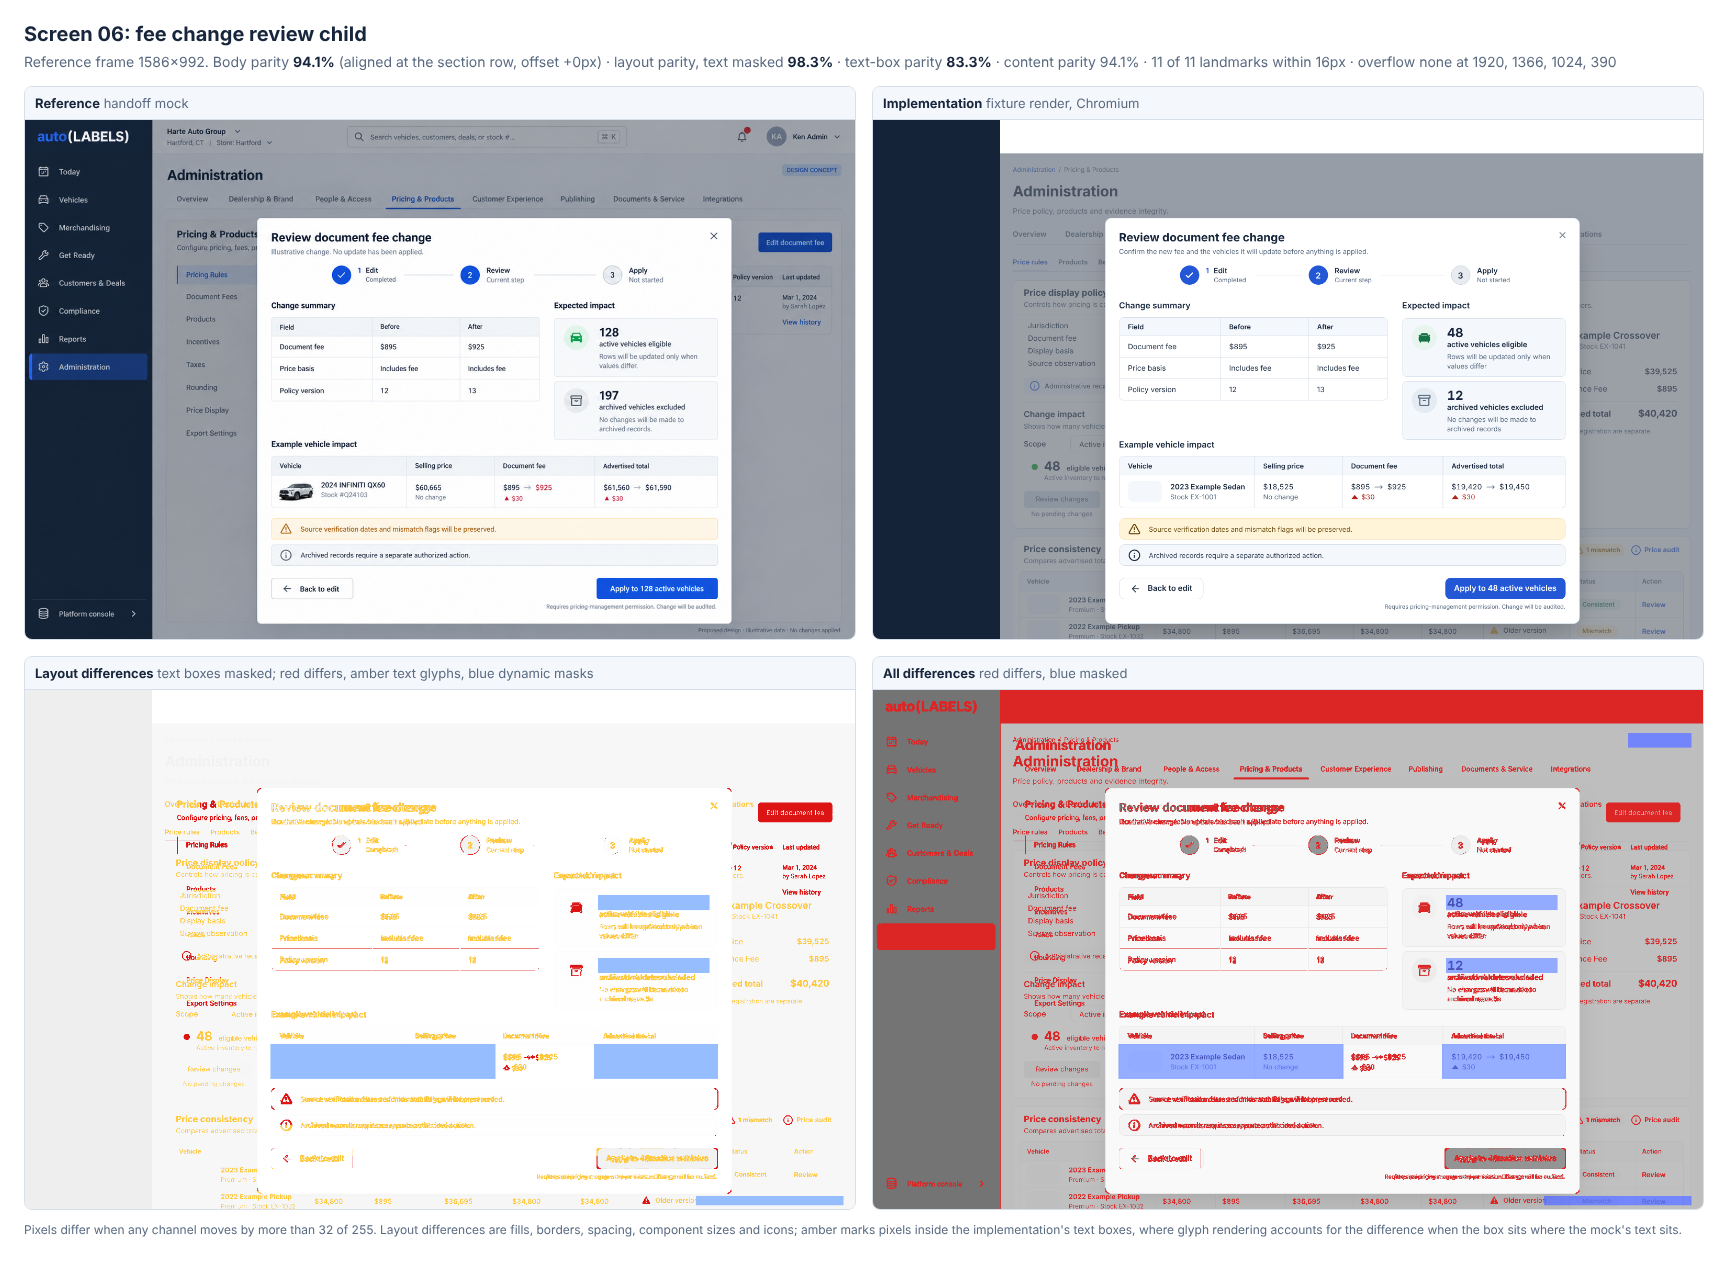
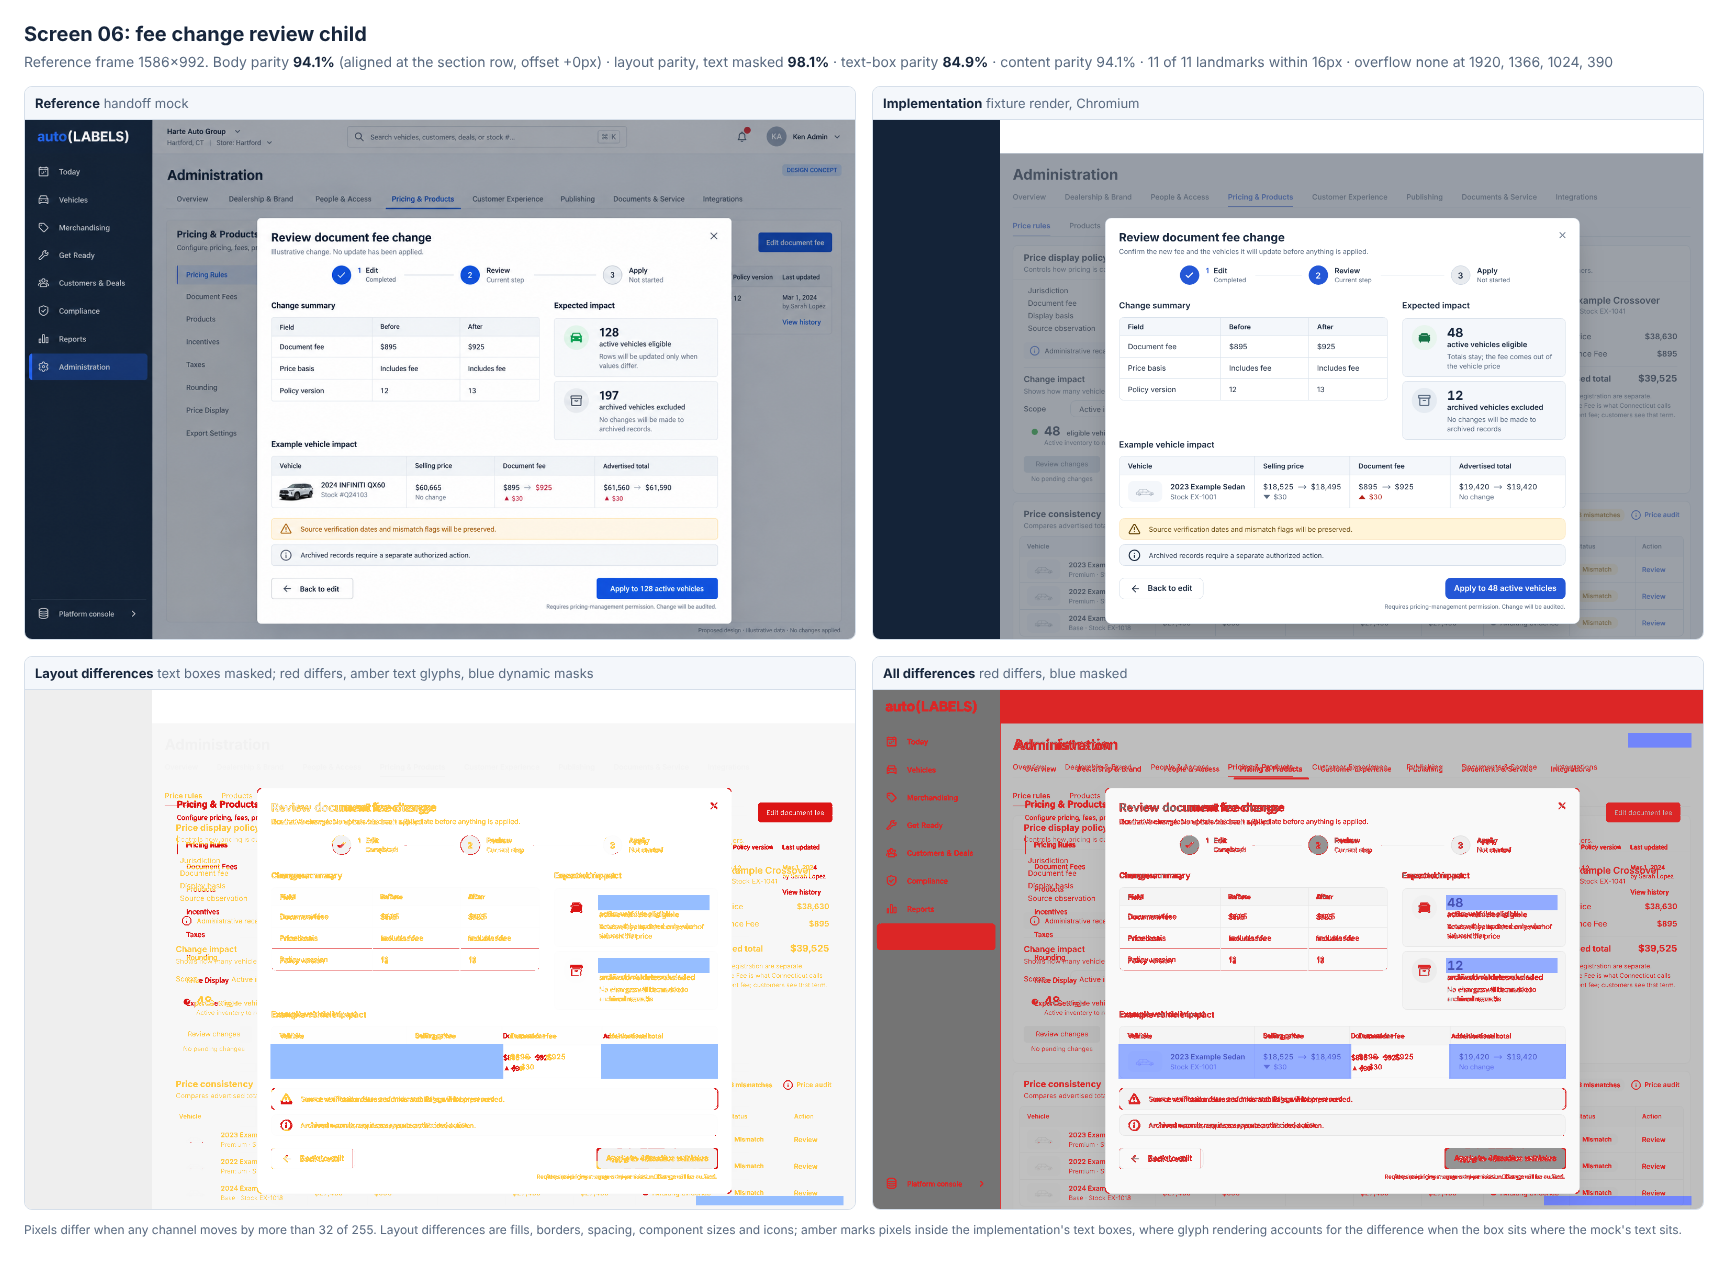
Record screen 06 individual review package and all 13 screens on one revision
- Full protocol v2 run on 7f4fa1a; every screen equals its earlier figure,
  06 at 94.11% (individual review band), 12 screens below 94%
- Screen 06 overlay, side-by-side, desktop and phone captures, desktop
  interaction states with button enablement, and the phone dialog checks
  (30 of 30); the phone check now expects the corrected fee-inclusive
  example (total unchanged, selling price absorbs the fee)
- Current captures and sheets of 01, 08 and 12 for review; no tuning
- Owner summary 10.15

Claude-Session: https://claude.ai/code/session_01JTZytE7hG5Xx6bDG1CX5aK

diff --git a/ADMIN_V2_RELEASE_READINESS.md b/ADMIN_V2_RELEASE_READINESS.md
@@ -27,7 +27,7 @@ every production check was a read or a block that always rolled back.
 | 13 | Lead escalation function | Verified in isolation; first live escalation Untested | 22 checks running the deployed source unmodified | production has no valid destination and no leads, so it cannot send yet; a failed lead update after an accepted send would repeat the email (section 7) |
 | 14 | MarketCheck quota protection and paused sweep | Verified | ledger, scheduler and 38-screen mount test (section 8) | the daily feed retries a quota refusal twice (3 refused calls a day until Nov 1) |
 | 15 | Scheduled monitoring | Verified (configured) | trigger read back (section 9) | results arrive 2026-10-29 07:40 UTC |
-| 16 | Visual acceptance | Not met; exceptions pending | Protocol v2 on `1dd1d4b`: 06 at 94.15% (individual review); 12 screens below 94%; mobile pass and 05 pricing correction verified (sections 10.7-10.8) | Owner visual review |
+| 16 | Visual acceptance | Not met; 06 submitted for individual review | Protocol v2, all 13 screens measured on one revision (`7f4fa1a`, section 10.15): 06 at 94.11% (individual review); 12 screens below 94% | Owner visual review |
 
 ## 2. How the evidence was produced
 
@@ -1461,6 +1461,90 @@ treatment is not the problem on these surfaces.
 | G7 | Crawler patch deployed in shadow mode: evidence and audit only, no listing writes, for at least one full crawl cycle; held and unresolved rates reviewed | Open |
 | G8 | Listing writes enabled for one dealership with a rollback flag; class A correction regenerated from reconciled stacks through the guarded template | Open |
 | G9 | MarketCheck resumption decided separately, after quota, cost and these safeguards | Open (paused) |
+
+### 10.15 Screen 06 individual review package; all 13 screens on one revision (2026-10-29)
+
+**Revision.** Every number below was measured in one harness run on
+implementation commit `7f4fa1a`. `a46cfa7` and this commit add only review
+tooling and evidence under `scripts/`, so the app code is the same. No
+screen was tuned in this round. The acceptance rule is unchanged:
+- 95% target;
+- 94.00-94.99% eligible for individual approval;
+- below 94% is below the numeric target unless a specific exception is
+  approved.
+
+| # | Screen | v2 content | Band | Landmarks |
+| --- | --- | --- | --- | --- |
+| 01 | Overview | 92.99% | below 94 | pass |
+| 02 | Dealership & Brand | 88.01% | below 94 | pass |
+| 03 | People & Access | 90.70% | below 94 | pass |
+| 04 | Member role | 89.87% | below 94 | fail (owner layout decision) |
+| 05 | Price rules | 89.87% | below 94 | pass |
+| 06 | Fee change review | **94.11%** | 94.00-94.99: individual review | pass |
+| 07 | Product applicability | 87.83% | below 94 | pass |
+| 08 | Contact & Routing | 92.12% | below 94 | pass |
+| 09 | Escalation rules | 86.53% | below 94 | pass |
+| 10 | Effective policy | 89.53% | below 94 | fail (owner layout decision) |
+| 11 | Approval rules | 89.84% | below 94 | fail (approved title block) |
+| 12 | Inventory feed | 92.22% | below 94 | fail (owner layout decision) |
+| 13 | Sync run detail | 87.77% | below 94 | fail (owner layout decision) |
+
+Every value equals the earlier figure for that screen, so the mixed-revision
+table in 10.8 and 10.9 is superseded by this one.
+
+**Screen 06 package** (`scripts/admin-parity/evidence/`):
+- **Reference, actual, overlay and differences:** `overlay/06.png`.
+- **Side by side with diffs:** `side-by-side/06.png`.
+- **Actual captures:**
+  - `screen-06-review/actual-06-1586x992.png`;
+  - `screen-06-review/06-1920x1080.png`;
+  - `screen-06-review/06-1366x768.png`;
+  - `screen-06-review/06-390x844.png`.
+- **Desktop states** (`screen-06-review/states/`, with `states-06.json`):
+
+  | State | Buttons and messages |
+  | --- | --- |
+  | Review as opened | Back to edit enabled; Apply to 48 active vehicles enabled |
+  | Back to edit | Review changes enabled; draft kept |
+  | Fee set back to $895 | Review changes disabled |
+  | Amount -5 submitted | "The fee cannot be negative." |
+  | Fee switched off | Amount field disabled |
+  | 1366x768 | The review fits without scrolling |
+
+- **Phone captures** (`screen-06-review/mobile/`): 390x844, 320x568 and
+  390x500 (short, on-screen keyboard), captured as the dialog body scrolls.
+  30 of 30 checks pass:
+  - the dialog fits the viewport;
+  - the page behind does not scroll;
+  - Close, Back and Apply are reachable;
+  - every fee and total is readable;
+  - focus is trapped and returns to the trigger;
+  - the inputs scroll into view.
+- **States the fixture cannot reach:** Apply disabled while the review is
+  held, Apply disabled without pricing authority, and impact not computable.
+  These are covered by `FeeReviewPage.test.tsx`; with the pricing suites, 183
+  of 183 tests pass. The fixture does not perform an apply.
+
+**Pricing in screen 06 (verified).**
+- The example row follows the corrected fee-inclusive rule: fee $895 to $925,
+  selling price $18,525 to $18,495 (-$30), advertised total $19,420 to
+  $19,420 (no change).
+- The phone check had still expected the pre-correction total of $19,450.
+  The check was updated to the corrected values; the screen was not changed.
+- **Known deviation from the mock, kept on purpose.** The reference shows the
+  pre-correction arithmetic: selling price unchanged, advertised total +$30.
+  Matching it would reintroduce the pricing error, so this difference stays
+  and counts against the score.
+- **Proposed rule, not live.** The behaviour shown is the policy B rule. The
+  policy B migration is not applied in production, so the live dialog shows
+  whatever the deployed server preview returns.
+
+**Current captures of 01, 08 and 12** for review before any tuning proposal:
+- `overlay/01.png`, `overlay/08.png`, `overlay/12.png`;
+- `side-by-side/01.png`, `side-by-side/08.png`, `side-by-side/12.png`;
+- `screen-06-review/actual-{01,08,12}-1586x992.png`.
+
+No tuning is proposed until you have reviewed them.
 
 ## 11. Approvals requested
 

diff --git a/ADMIN_V2_PARITY_REPORT.md b/ADMIN_V2_PARITY_REPORT.md
@@ -1,6 +1,6 @@
 # Administration V2 visual parity report
 
-Generated 2026-10-28T22:15:05.834Z by `bun run admin:parity` against the development fixture route. Every screen is a synthetic fixture rendered by the real Administration components; no production data appears in any capture.
+Generated 2026-10-29T05:30:19.165Z by `bun run admin:parity` against the development fixture route. Every screen is a synthetic fixture rendered by the real Administration components; no production data appears in any capture.
 
 ## Method
 
@@ -240,12 +240,12 @@ Masks (29): change impact counts (fixture inventory sizes); preview vehicle name
 
 ## Screen 06
 
-Reference: `scripts/admin-parity/reference/06-fee-change-review-child.png`. Fonts: Inter loaded (Inter). Gate: FAIL (protocol v2 content parity 94.15% is below 95%). Acceptance pending; no exception has been approved.
+Reference: `scripts/admin-parity/reference/06-fee-change-review-child.png`. Fonts: Inter loaded (Inter). Gate: FAIL (protocol v2 content parity 94.11% is below 95%). Acceptance pending; no exception has been approved.
 
 | Frame | Capture | Full parity | Full structure | Content parity | Content structure | Body parity (aligned) | Body structure | Layout parity (text masked) | Text-box parity | Masked |
 |---|---|---|---|---|---|---|---|---|---|---|
-| 1586x992 | `scripts/admin-parity/out/06-1586x992.png` | 88.47% | 82.33% | 94.15% | 81.98% | 94.10% (+0px) | 81.85% | 98.15% | 84.94% | 4.12% |
-| 1600x1000 | `scripts/admin-parity/out/06-1600x1000.png` | 85.37% | 73.52% | 90.34% | 70.96% | n/a | n/a | n/a | n/a | 4.05% |
+| 1586x992 | `scripts/admin-parity/out/06-1586x992.png` | 88.44% | 82.17% | 94.11% | 81.78% | 94.05% (+0px) | 81.61% | 98.10% | 84.91% | 4.13% |
+| 1600x1000 | `scripts/admin-parity/out/06-1600x1000.png` | 85.35% | 73.43% | 90.32% | 70.83% | n/a | n/a | n/a | n/a | 4.06% |
 
 Rail stand-in: 243px (the mock's rail width); content region starts at x=246.
 Body anchor (pinned in landmarks.json): reference y=187, capture y=187 (title block offset +0px).
